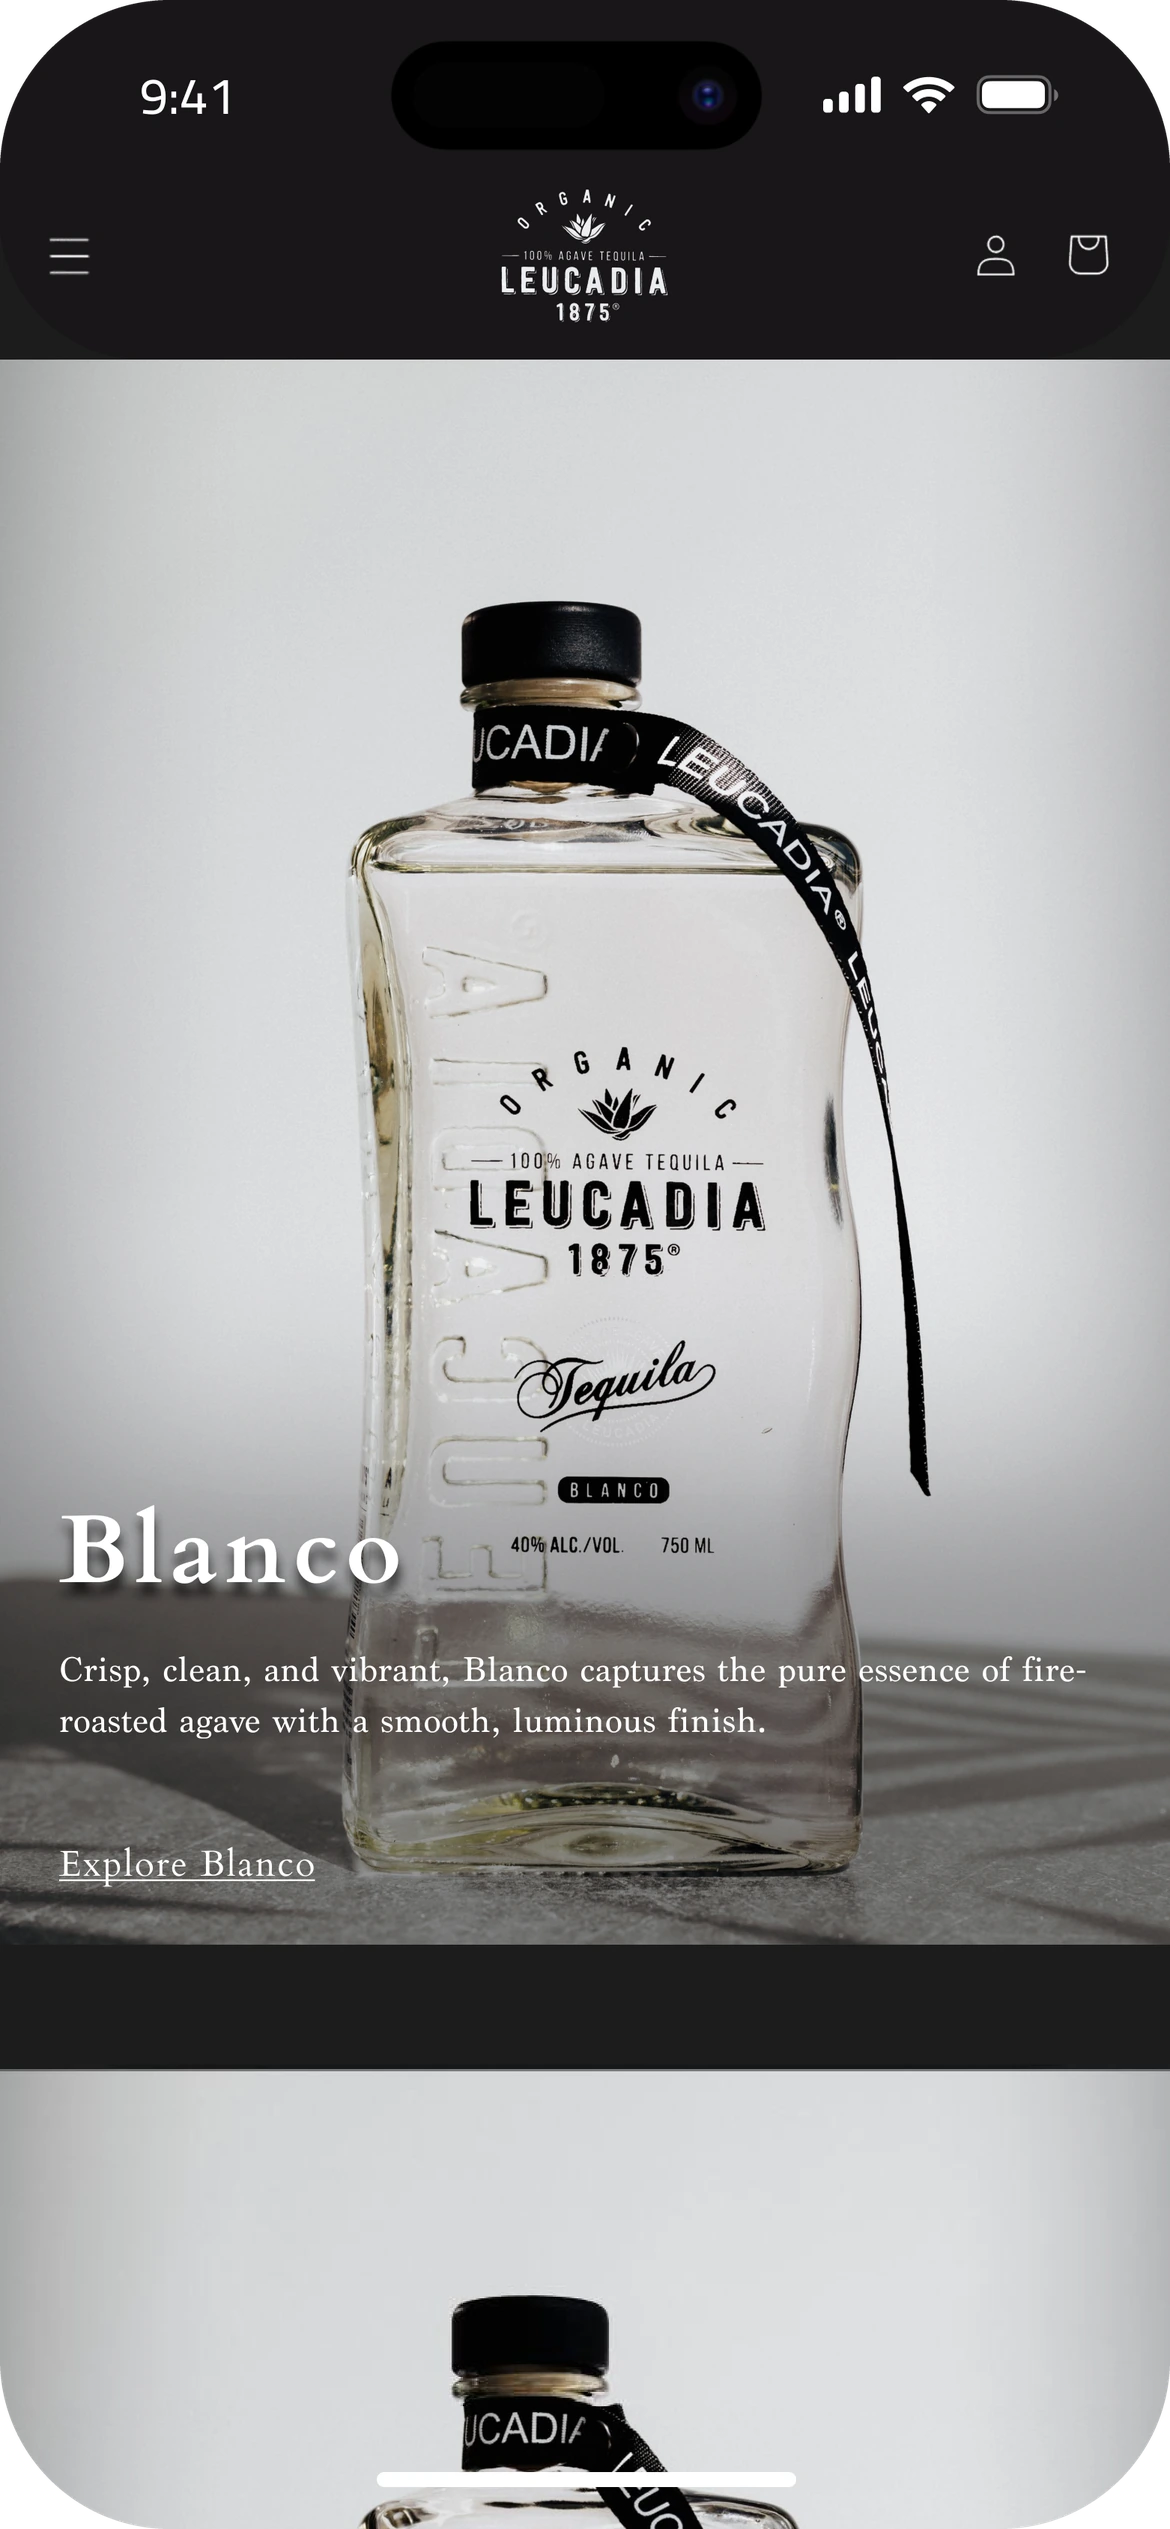
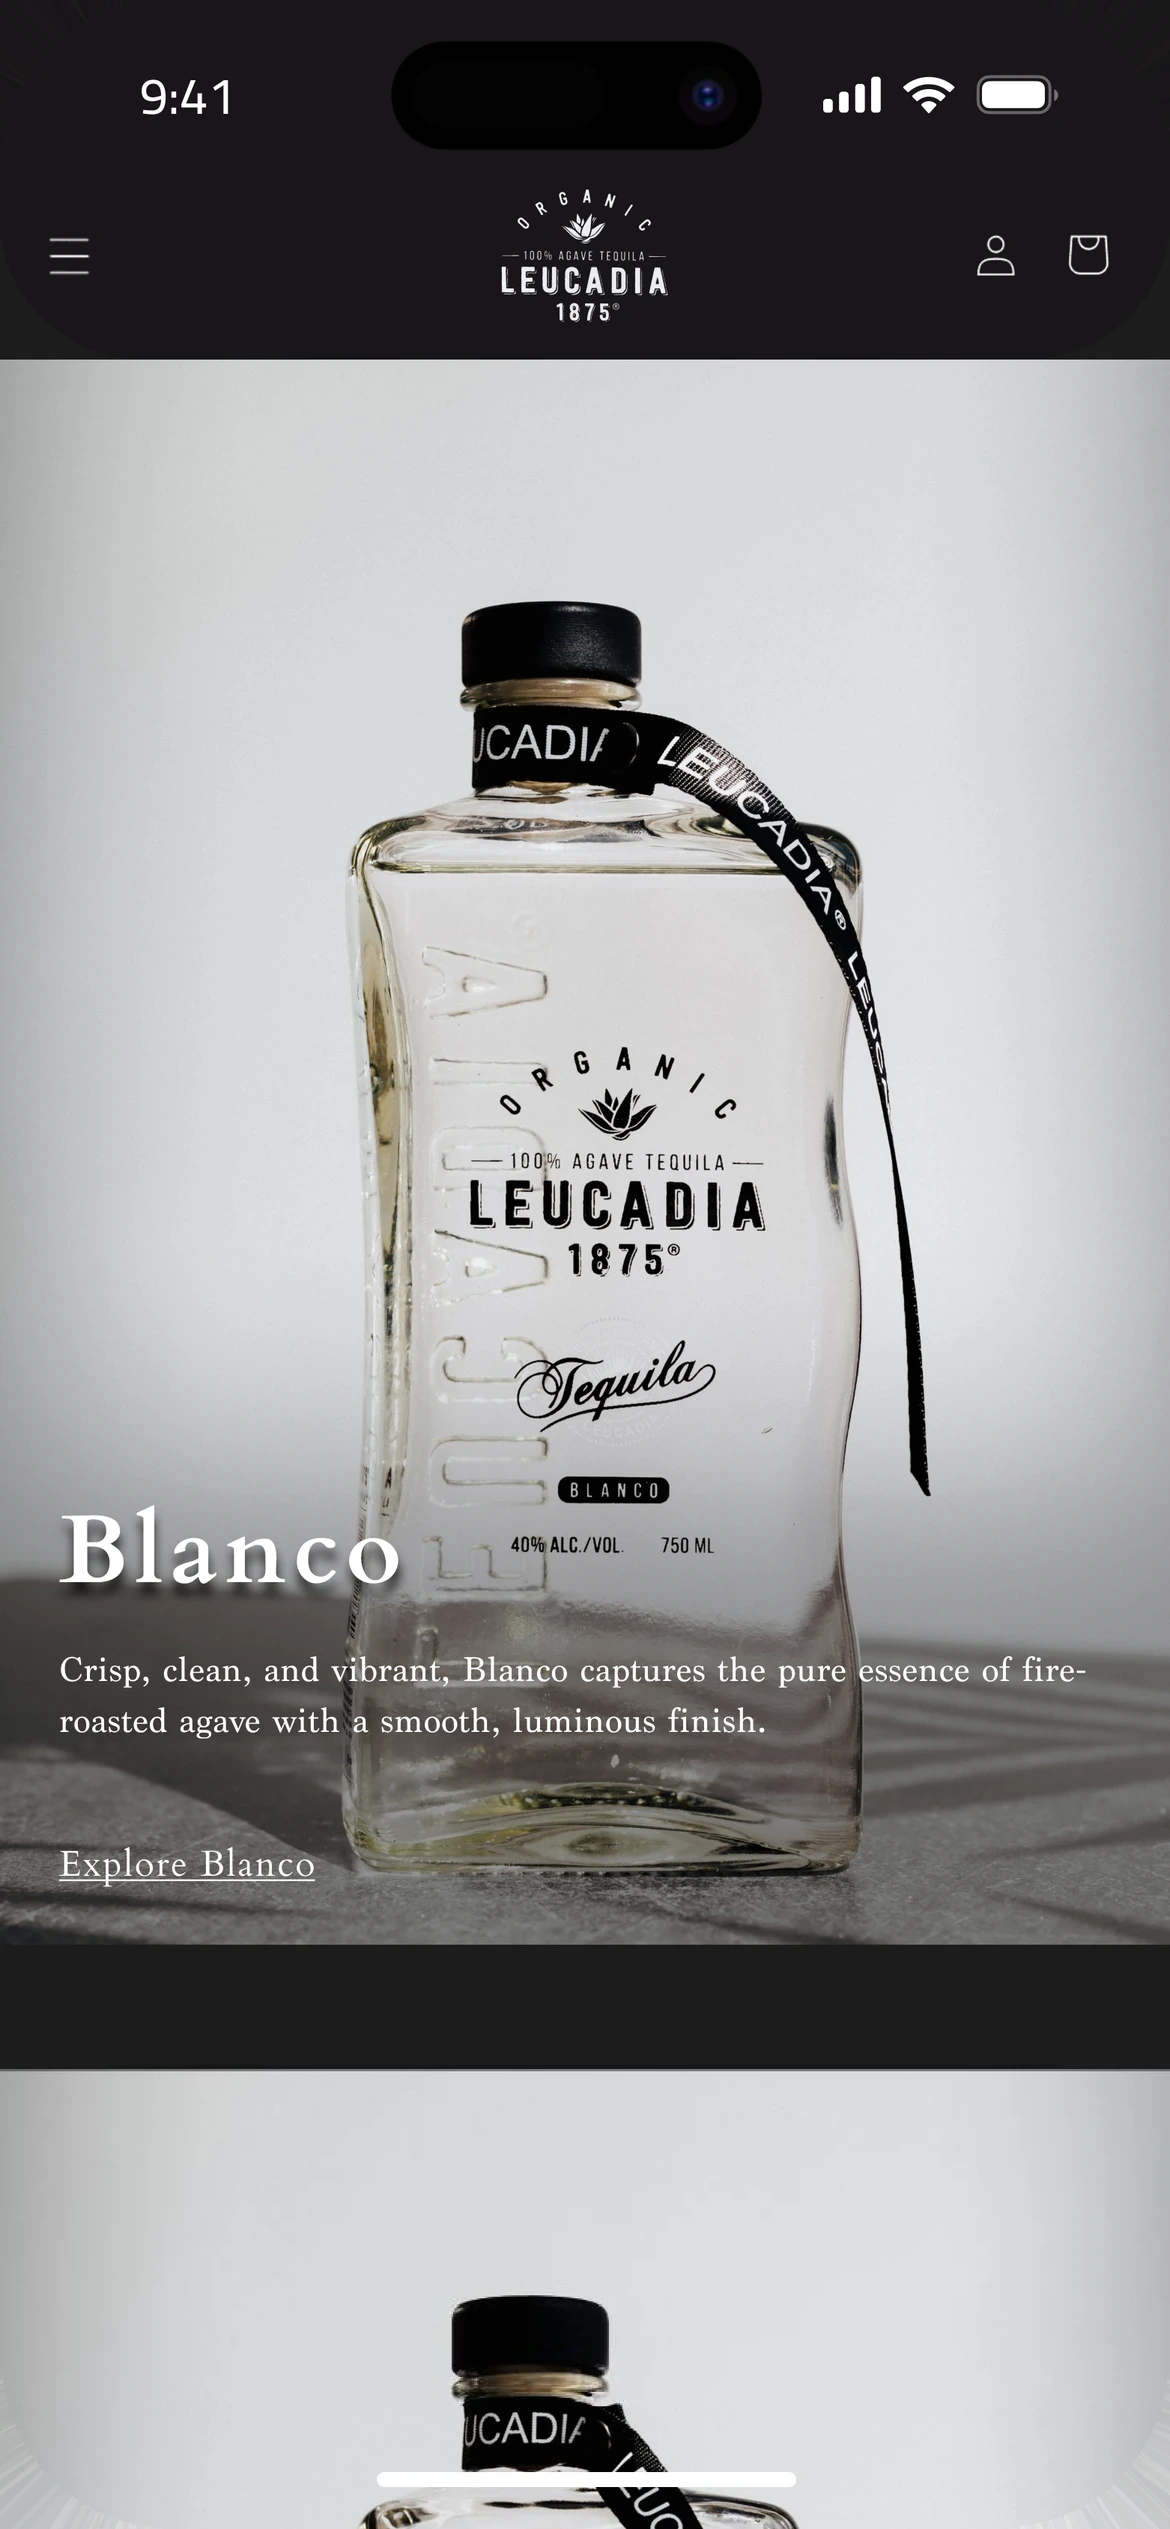
Wine Brand Website: slightly sharper phone corners (screenshot corners filled, radius set in CSS)

diff --git a/components/case/phone-flow.tsx b/components/case/phone-flow.tsx
@@ -45,7 +45,7 @@ export function PhoneFlow({ phones, width = 220, device = false }: { phones: Pho
   const BEZEL = Math.round(width * 0.012);
   const EDGE = 2;
   const screenW = width - 2 * (BEZEL + EDGE);
-  const r = Math.round(screenW * 0.154);
+  const r = Math.round(screenW * 0.125);
   const { ref, shown } = useInViewOnce<HTMLDivElement>(0.15);
   return (
     <div ref={ref} className="-mx-gutter overflow-x-auto px-gutter pb-4 pt-3 [scrollbar-width:thin] md:-mx-gutter-lg md:px-gutter-lg">
